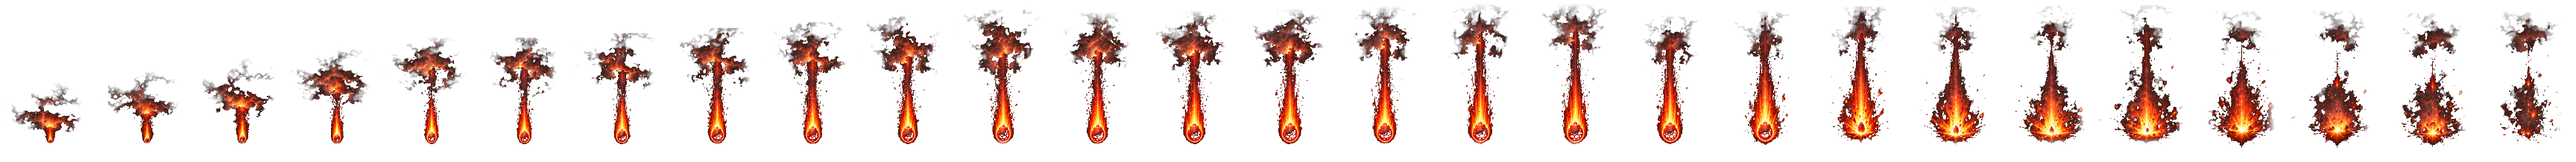
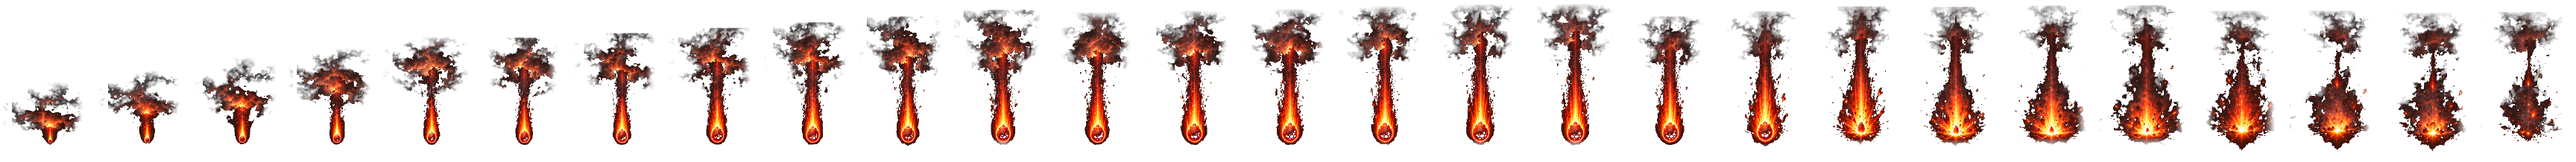
☁ Meteoro vem de mais alto, e a nuvem aparece
"Poderia vir de mais alto o meteoro e mostrar um pouco mais de nuvens, o
restante ficou excelente."

ALTO: `queda` de 430 para 540 px (17 tiles).

🔴 E A TELA É O TETO DISTO, não a nossa escolha: a 1,0× de zoom a janela mostra
uns 24 tiles na vertical com o jogador no meio, então sobram cerca de doze acima
do alvo. A 540 a pedra já nasce fora do quadro e entra em cena em movimento —
uns 190 ms dos 650. Subir muito mais devolve pelo outro lado o problema de
12/09: ela deixa de "vir do céu" e passa a surgir na borda de cima.

NUVEM: o recorte a deixava em 0,19 de alfa. Ela é escura — medida, mediana entre
35 e 43 de luminância com o fundo em 11–25 — e a rampa do brilho ia de 34 a 80,
longa demais para uma faixa tão estreita. Encurtada para 26–56, a mesma nuvem
sai com 0,57.

⚠ Pouca margem de propósito: 26 fica logo acima do p95 do fundo, e quem segura
o resto é o piso de alfa de 9 %.

⚠ O CABEÇALHO DO CORTADOR FOI REESCRITO JUNTO. Ele ainda descrevia a primeira
folha ("5×5 sobre cinza, sem grade") e contradizia o próprio código, que hoje
atende três folhas diferentes e decide a grade por medida. Comentário que
descreve o passado é pior que comentário nenhum — ele é lido como verdade.

Typecheck limpo nos três pacotes; 654 testes passando.

diff --git a/client/src/main.ts b/client/src/main.ts
@@ -2808,10 +2808,19 @@ async function startGame(playerName: string, charClass: PlayerClass, gender: Gen
      * peso vindo de fora: tremor, clarão, rachaduras e 28 estilhaços. Se o dono
      * achar o impacto curto, é aqui que se vê o porquê — não há mais desenho.
      *
-     * ⚠ **`queda: 430` são treze tiles de altura.** Perto o bastante para a
-     * pedra nascer dentro da janela do jogador, longe o bastante para ler como
-     * *"veio do céu"* — e não como *"uma pedra apareceu em cima do inimigo"*, que
-     * é o que o dono não quer desde 12/09.
+     * ⚠ **`queda: 540` são DEZESSETE tiles de altura**, e eram treze — *"poderia
+     * vir de mais alto o meteoro"* (dono, 13/09).
+     *
+     * 🔴 **E a TELA é o teto disto.** A 1,0× de zoom a janela mostra uns 24 tiles
+     * na vertical, com o jogador no meio: sobram cerca de doze tiles acima do
+     * alvo. Passando disso, a pedra NASCE FORA DO QUADRO e entra em cena já em
+     * movimento — o que, a esta velocidade, ainda lê bem (*"veio de muito alto"*),
+     * mas o preço é perder o começo da animação, que é justamente onde a nuvem
+     * aparece. A 540 são uns 190 ms de mergulho fora da tela, de 650.
+     *
+     * ⚠ Subir muito mais devolve o problema que o dono levantou em 12/09 pelo
+     * outro lado: a pedra deixa de *"vir do céu"* e passa a simplesmente surgir na
+     * borda de cima.
      *
      * ⚠ **`ancoraY: 0.88` é MEDIDO pelo cortador**, e é o mesmo nos DOIS sprites
      * — é ele que faz a pedra e a cratera caírem no mesmo ponto. O rodapé puro
@@ -2845,7 +2854,7 @@ async function startGame(playerName: string, charClass: PlayerClass, gender: Gen
        * régua desde que o degrau foi consertado, mas `cresce` é o que separa um
        * do outro. Baixar a régua encolheria a cratera junto, que ele já aprovou.
        */
-      trajetoria: { queda: 430, cresce: [0.55, 0.75] },
+      trajetoria: { queda: 540, cresce: [0.55, 0.75] },
       /*
        * 🔴 **MISTURA NORMAL, e é a segunda folha do jogo com ela.**
        *

diff --git a/client/meteoro-preview.html b/client/meteoro-preview.html
@@ -39,7 +39,7 @@
   // Da ficha: `quedaMs` (o mergulho, e quando o dano chega) e a área 7×7.
   const MERGULHO = 650, RAIO = 3;
   // Do cliente: `trajetoria`, `fracaoQueda`, `duracaoEstouro` e `ancoraY`.
-  const QUEDA = 430, CRESCE = [0.55, 0.75], FRACAO = 19 / 27;
+  const QUEDA = 540, CRESCE = [0.55, 0.75], FRACAO = 19 / 27;
   const ESTOURO = 560, ANCORA_Y = 0.88;
   const ESCALA_QUEDA = 0.625, ESCALA_IMPACTO = 2.18;
   const ESCALA = ESCALA_QUEDA * ESCALA_IMPACTO;

diff --git a/docs/HISTORICO.md b/docs/HISTORICO.md
@@ -204,6 +204,26 @@ tirada de dois casos é palpite com currículo.
 ⚡ **E a queda foi a 650 ms** — terceiro pedido de *"mais rápido"* no mesmo dia: 12 → 15 →
 **20 tiles/s**. São 19 quadros de mergulho, 34 ms cada.
 
+### ☁ Mais alto, e mais nuvem — com um teto que não é escolha nossa
+
+*"Poderia vir de mais alto o meteoro e mostrar um pouco mais de nuvens."*
+
+**Alto:** `queda` de 430 para **540 px (17 tiles)**. 🔴 **E a TELA é o teto disto**: a 1,0× de
+zoom a janela mostra uns 24 tiles na vertical com o jogador no meio, então sobram cerca de
+doze acima do alvo. A 540 a pedra já nasce fora do quadro e entra em cena em movimento —
+uns 190 ms dos 650. Subir muito mais devolve, pelo outro lado, o problema de 12/09: ela
+deixa de *vir do céu* e passa a surgir na borda de cima.
+
+**Nuvem:** o recorte a deixava em **0,19 de alfa**. Ela é escura (mediana 35–43 de
+luminância, com o fundo em 11–25) e a rampa do brilho ia de 34 a 80 — longa demais para uma
+faixa tão estreita. Encurtada para 26–56, a mesma nuvem sai com **0,57**. É pouca margem de
+propósito: 26 fica logo acima do p95 do fundo, e quem segura o resto é o piso de alfa.
+
+⚠ **O cabeçalho do cortador foi reescrito junto.** Ele ainda descrevia a primeira folha
+("5×5 sobre cinza, sem grade") e contradizia o próprio código, que hoje atende três folhas
+diferentes e decide a grade por medida. Comentário que descreve o passado é pior que
+comentário nenhum: ele é lido como verdade.
+
 ---
 
 ## 2026-09-11 — O Meteoro ganha oito direções de entrada
